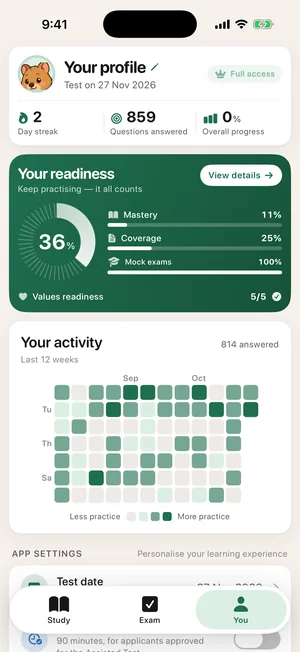
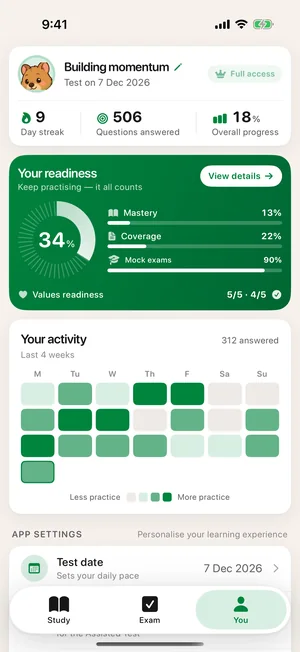
feat(citizenship): Australia and US screenshots re-shot in the flag themes
Every Australian and US screenshot on the landing pages and homepage
cards now comes from the apps' current builds with the in-app themes
applied: gold buttons on green for Australia, red buttons on navy for
the US. The result shots show the seeded passed attempt's breakdown
(18/20 and 12/20) rather than a run answered at random. Alt texts
updated to match.

diff --git a/apps/australia-citizenship/index.html b/apps/australia-citizenship/index.html
@@ -161,7 +161,7 @@
     </div>
     <div class="feature-shot">
       <div class="phone-frame">
-        <img src="/images/au-values.webp" srcset="/images/au-values-300.webp 300w, /images/au-values.webp 600w" sizes="(max-width: 820px) 240px, 280px" alt="Values drill question about what is lawful in Australia, with the reminder that all five values questions must be correct" loading="lazy" width="280" height="609">
+        <img src="/images/au-values.webp" srcset="/images/au-values-300.webp 300w, /images/au-values.webp 600w" sizes="(max-width: 820px) 240px, 280px" alt="Values drill question, with the reminder that all five values questions must be correct" loading="lazy" width="280" height="609">
       </div>
     </div>
   </div>
@@ -173,7 +173,7 @@
     </div>
     <div class="feature-shot">
       <div class="phone-frame">
-        <img src="/images/au-exam-question.webp" srcset="/images/au-exam-question-300.webp 300w, /images/au-exam-question.webp 600w" sizes="(max-width: 820px) 240px, 280px" alt="Mock exam question 2 of 20 with three answer options and the 45-minute timer" loading="lazy" width="280" height="609">
+        <img src="/images/au-exam-question.webp" srcset="/images/au-exam-question-300.webp 300w, /images/au-exam-question.webp 600w" sizes="(max-width: 820px) 240px, 280px" alt="Mock exam question 1 of 20 with three answer options and the 45-minute timer" loading="lazy" width="280" height="609">
       </div>
     </div>
   </div>
@@ -185,7 +185,7 @@
     </div>
     <div class="feature-shot">
       <div class="phone-frame">
-        <img src="/images/au-result.webp" srcset="/images/au-result-300.webp 300w, /images/au-result.webp 600w" sizes="(max-width: 820px) 240px, 280px" alt="Mock exam result: passed with 20 out of 20, values 5 of 5, and the quokka mascot celebrating" loading="lazy" width="280" height="609">
+        <img src="/images/au-result.webp" srcset="/images/au-result-300.webp 300w, /images/au-result.webp 600w" sizes="(max-width: 820px) 240px, 280px" alt="Mock exam result: passed with 18 out of 20, values 5 of 5, and a chapter-by-chapter breakdown" loading="lazy" width="280" height="609">
       </div>
     </div>
   </div>
@@ -197,7 +197,7 @@
     </div>
     <div class="feature-shot">
       <div class="phone-frame">
-        <img src="/images/au-explained.webp" srcset="/images/au-explained-300.webp 300w, /images/au-explained.webp 600w" sizes="(max-width: 820px) 240px, 280px" alt="Practice question answered correctly, with an explanation and a link to the booklet section" loading="lazy" width="280" height="609">
+        <img src="/images/au-explained.webp" srcset="/images/au-explained-300.webp 300w, /images/au-explained.webp 600w" sizes="(max-width: 820px) 240px, 280px" alt="Practice question answered correctly, with an explanation and a link to read the booklet section" loading="lazy" width="280" height="609">
       </div>
     </div>
   </div>

diff --git a/apps/us-citizenship/index.html b/apps/us-citizenship/index.html
@@ -174,7 +174,7 @@
     </div>
     <div class="feature-shot">
       <div class="phone-frame">
-        <img src="/images/us-interview.webp" srcset="/images/us-interview-300.webp 300w, /images/us-interview.webp 600w" sizes="(max-width: 820px) 240px, 280px" alt="Mock interview question, What is the form of government of the United States, with every accepted answer revealed" loading="lazy" width="280" height="609">
+        <img src="/images/us-interview.webp" srcset="/images/us-interview-300.webp 300w, /images/us-interview.webp 600w" sizes="(max-width: 820px) 240px, 280px" alt="Mock interview question with the accepted answer revealed and an explanation" loading="lazy" width="280" height="609">
       </div>
     </div>
   </div>
